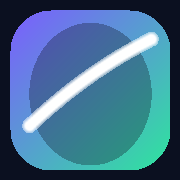
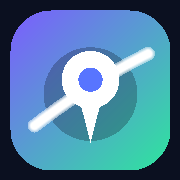
Update PWA assets and versioning for improved caching and compatibility
- Incremented version numbers in index.html, manifest.webmanifest, and sw.js to reflect the latest changes.
- Updated icon links to use version 6 for better asset management.
- Refactored SVG icons for improved design and consistency across the application.
- Enhanced PNG icons for better display on iOS devices.

diff --git a/tools/gen-png-icons.js b/tools/gen-png-icons.js
@@ -60,11 +60,10 @@ function minDistToQBezier(px, py, p0, p1, p2, samples = 48) {
   return Math.sqrt(m);
 }
 
-function insideShield(px, py, w, h) {
-  const nx = (px - w * 0.5) / (w * 0.34);
-  const ny = (py - h * 0.52) / (h * 0.38);
-  const d = nx * nx + ny * ny * 0.92;
-  return d < 1;
+function insideCircle(px, py, cx, cy, r) {
+  const dx = px - cx;
+  const dy = py - cy;
+  return dx * dx + dy * dy <= r * r;
 }
 
 function pixelColor(x, y, size) {
@@ -84,18 +83,18 @@ function pixelColor(x, y, size) {
   const t = (lx / Math.max(1, iw - 1) + ly / Math.max(1, ih - 1)) / 2;
   let [r, g, b] = lerpRgb(PURPLE, MINT, Math.max(0, Math.min(1, t)));
 
-  if (insideShield(x, y, w, h)) {
-    const a = 0.32;
+  if (insideCircle(x, y, w * 0.5, h * 0.52, size * 0.26)) {
+    const a = 0.28;
     r = Math.round(r * (1 - a) + SHIELD[0] * a);
     g = Math.round(g * (1 - a) + SHIELD[1] * a);
     b = Math.round(b * (1 - a) + SHIELD[2] * a);
   }
 
-  const p0 = [margin + iw * 0.12, margin + ih * 0.72];
-  const p1 = [margin + iw * 0.48, margin + ih * 0.38];
-  const p2 = [margin + iw * 0.88, margin + ih * 0.18];
-  const d = minDistToQBezier(x, y, p0, p1, p2, size > 256 ? 80 : 48);
-  const halfW = Math.max(4.5, size * 0.032);
+  const p0 = [margin + iw * 0.15, margin + ih * 0.72];
+  const p1 = [margin + iw * 0.50, margin + ih * 0.45];
+  const p2 = [margin + iw * 0.86, margin + ih * 0.27];
+  const d = minDistToQBezier(x, y, p0, p1, p2, size > 256 ? 92 : 56);
+  const halfW = Math.max(4, size * 0.028);
   const tLine = Math.max(0, Math.min(1, 1 - (d - (halfW - 2)) / 4));
   const smooth = tLine * tLine * (3 - 2 * tLine);
   if (smooth > 0.01) {
@@ -104,6 +103,29 @@ function pixelColor(x, y, size) {
     r = Math.round(r * (1 - alpha) + br * alpha);
     g = Math.round(g * (1 - alpha) + br * alpha);
     b = Math.round(b * (1 - alpha) + br * alpha);
+  }
+
+  // White map pin (circle + tail)
+  const pcx = w * 0.5;
+  const pcy = h * 0.44;
+  const pr = size * 0.16;
+  const top = insideCircle(x, y, pcx, pcy, pr);
+  const tailTop = pcy + pr * 0.15;
+  const tailBottom = pcy + pr * 2.2;
+  const tailT = (y - tailTop) / Math.max(1, tailBottom - tailTop);
+  const tailHalf = Math.max(0, (1 - tailT) * pr * 0.52);
+  const inTail = y >= tailTop && y <= tailBottom && Math.abs(x - pcx) <= tailHalf;
+  if (top || inTail) {
+    r = 255;
+    g = 255;
+    b = 255;
+  }
+
+  // Pin center hole
+  if (insideCircle(x, y, pcx, pcy, pr * 0.42)) {
+    r = 88;
+    g = 117;
+    b = 255;
   }
 
   return [r, g, b, 255];

diff --git a/index.html b/index.html
@@ -7,8 +7,8 @@
     <meta name="theme-color" content="#0b1020" />
     <meta name="apple-mobile-web-app-title" content="Gå Appen" />
     <meta name="description" content="Gå Appen: gå eller sykle til skolen, få poeng og vinn i kommunen/skolen." />
-    <link rel="manifest" href="./manifest.webmanifest?v=5" />
-    <link rel="icon" href="./icons/icon.svg?v=5" type="image/svg+xml" />
+    <link rel="manifest" href="./manifest.webmanifest?v=6" />
+    <link rel="icon" href="./icons/icon.svg?v=6" type="image/svg+xml" />
     <!-- iOS bruker PNG; faste nye filnavn (pwa-180) for å unngå evig hurtigbuffer -->
     <link rel="apple-touch-icon" href="./icons/pwa-180.png" />
     <link rel="apple-touch-icon" sizes="180x180" href="./icons/pwa-180.png" />
@@ -31,7 +31,7 @@
         <div class="brand">
           <img
             class="brand__logo"
-            src="./icons/icon.svg?v=5"
+            src="./icons/icon.svg?v=6"
             width="42"
             height="42"
             alt=""

diff --git a/sw.js b/sw.js
@@ -1,4 +1,4 @@
-const VERSION = "ga-appen-pwa-v8";
+const VERSION = "ga-appen-pwa-v9";
 
 // Cache only our own assets. (CDN tiles/libs are left to the browser.)
 const CORE_ASSETS = [
@@ -10,8 +10,8 @@ const CORE_ASSETS = [
   "./icons/pwa-180.png",
   "./icons/pwa-192.png",
   "./icons/pwa-512.png",
-  "./icons/icon.svg?v=5",
-  "./icons/icon-maskable.svg?v=5",
+  "./icons/icon.svg?v=6",
+  "./icons/icon-maskable.svg?v=6",
 ];
 
 self.addEventListener("install", (event) => {
